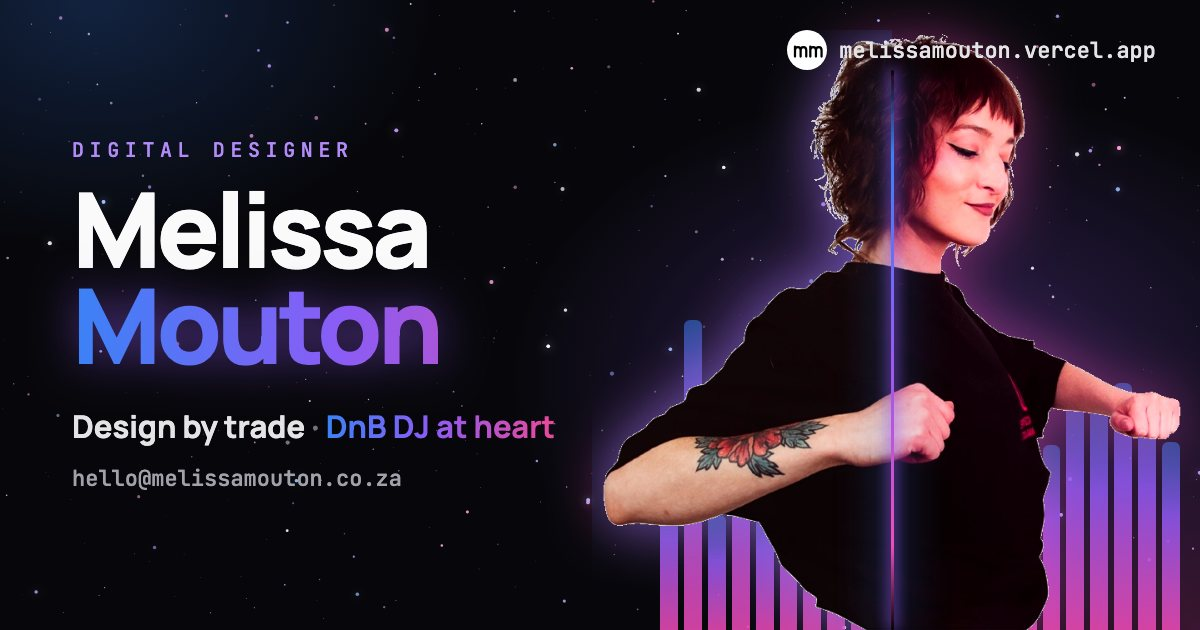
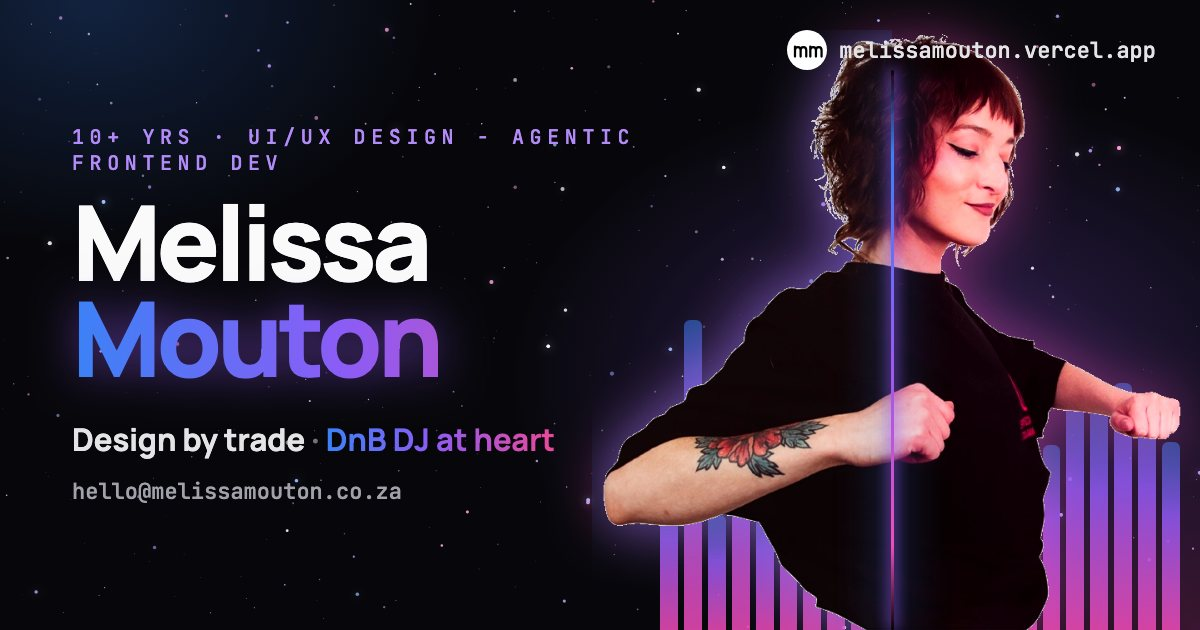
feat: add experience timeline, education, LinkedIn links and AI-workflow headline

diff --git a/src/data/profile-copy.ts b/src/data/profile-copy.ts
@@ -4,25 +4,170 @@ export const profile = {
   name: 'Melissa Mouton',
   /** The old site's title is "Melissa Mouton Design". */
   siteName: 'Melissa Mouton Design',
-  headline: 'Digital designer',
+  headline: '10+ yrs · UI/UX Design - Agentic Frontend Dev',
+  location: 'Cape Town, South Africa',
   email: 'hello@melissamouton.co.za',
+  linkedin: 'https://www.linkedin.com/in/melissamouton',
+  linkedinLabel: 'LinkedIn',
   photoAlt: 'Picture of Melissa Mouton',
   about: {
-    title: "I'm a digital designer obsessed with clean layouts ⚡, smart storytelling ✍, and making things look good and work hard 🔍",
+    title:
+      'UI/UX designer turned agentic frontend builder — shipping clean interfaces ⚡, smart storytelling ✍, and production code with AI workflows 🔍',
     subtitle:
-      'I design across web, social, campaigns, and video — collaborating remotely with international teams to build cohesive, scalable brands 💻✨',
+      "With 10+ years of experience collaborating remotely with international teams across web, social, campaigns, and video, I've evolved my workflow as AI reshapes the job market — moving beyond static handoffs into agentic frontend development to take products from concept to shipped code 💻✨",
     contactLead: 'Say hi!',
   },
+  skills: ['Digital Design', 'UI Design', 'UX Design', 'Agentic Frontend', 'Brand Systems', 'Campaigns'],
+  languages: ['English (Full Professional)', 'Afrikaans (Full Professional)'],
 } as const;
+
+export interface RoleEntry {
+  title: string;
+  period: string;
+  summary?: string;
+}
+
+export interface ExperienceEntry {
+  organization: string;
+  meta: string;
+  roles: RoleEntry[];
+}
+
+export interface EducationEntry {
+  institution: string;
+  credential: string;
+  period: string;
+}
+
+export const EXPERIENCE: ExperienceEntry[] = [
+  {
+    organization: 'Freelance',
+    meta: 'Mar 2024 – Present · Cape Town, South Africa',
+    roles: [
+      {
+        title: 'Freelance Graphic & UI/UX Designer',
+        period: 'Mar 2024 – Present',
+        summary: 'Brand-led digital campaigns, UI/UX systems, and AI-assisted frontend workflows for remote teams.',
+      },
+    ],
+  },
+  {
+    organization: 'The Arcadia Group',
+    meta: '6 yrs 3 mos · Remote',
+    roles: [
+      {
+        title: 'Head of Brand Management, Relations & Outreach',
+        period: 'Jan 2023 – Mar 2024',
+      },
+      {
+        title: 'Lead UI/UX Designer',
+        period: 'Sep 2021 – Mar 2023',
+      },
+      {
+        title: 'Freelance Graphic & UI Designer',
+        period: 'Jan 2018 – Mar 2023',
+        summary: 'User interface design using Adobe XD for keychain wallets and ICO websites.',
+      },
+    ],
+  },
+  {
+    organization: 'Self-employed · Odd Like Me Creative',
+    meta: '5 yrs 1 mo · Cape Town, South Africa',
+    roles: [
+      {
+        title: 'Graphic, UI, Crypto Designer & Social Media Coordinator',
+        period: 'Jul 2019 – Nov 2021',
+      },
+      {
+        title: 'Freelance Graphic / UI Designer',
+        period: 'Oct 2017 – Nov 2021',
+      },
+      {
+        title: 'Social Media Graphic Designer',
+        period: 'Aug 2017 – Nov 2021',
+      },
+      {
+        title: 'Owner & Graphic Designer',
+        period: 'Nov 2016 – Nov 2021',
+      },
+    ],
+  },
+  {
+    organization: 'Phangela Group',
+    meta: 'Cape Town, South Africa',
+    roles: [
+      {
+        title: 'Marketing Executive',
+        period: 'Mar 2019 – Jul 2019',
+      },
+      {
+        title: 'Freelance Graphic Designer / Events Project Manager / Social Media',
+        period: 'Oct 2017 – Sep 2018',
+      },
+    ],
+  },
+  {
+    organization: 'Pink Book',
+    meta: 'Feb 2017 – Aug 2017 · Stellenberg, Cape Town',
+    roles: [
+      {
+        title: 'Design & Social Media',
+        period: 'Feb 2017 – Aug 2017',
+        summary:
+          'Design of the annual Pink Book publication, vlog production and editing, blog and social imagery, social media advertising, Google Analytics tracking, and SEO research.',
+      },
+    ],
+  },
+  {
+    organization: 'eventcloud',
+    meta: 'Sep 2016 – Nov 2016 · Cape Town, South Africa',
+    roles: [
+      {
+        title: 'UI Artist',
+        period: 'Sep 2016 – Nov 2016',
+      },
+    ],
+  },
+  {
+    organization: 'Phangela Group & CDF',
+    meta: 'Jan 2014 – Aug 2016 · Bellville, Cape Town',
+    roles: [
+      {
+        title: 'Graphic Designer',
+        period: 'Jan 2014 – Aug 2016',
+        summary:
+          'Marketing material designs including website and photography, events organization, uniforms, website maintenance, and social media management.',
+      },
+    ],
+  },
+];
+
+export const EDUCATION: EducationEntry[] = [
+  {
+    institution: 'Red & Yellow School',
+    credential: 'Certificate, Digital Marketing',
+    period: '2016',
+  },
+  {
+    institution: "Pearson's Institute of Design",
+    credential: 'Bachelor of Arts (BA), Graphic Design',
+    period: 'Jan 2011 – Dec 2013',
+  },
+  {
+    institution: 'Midrand Graduate Institute (MGI) CTI',
+    credential: 'Bachelor of Arts (BA), Graphic Design – Advertising',
+    period: '2011 – 2013',
+  },
+];
 
 /** The two halves of the hero split: what she is by trade, and what she is at heart. */
 export const SIDES = {
   trade: {
     label: 'Design',
     tagline: 'By trade',
-    /** From her about copy: where she designs. */
-    lines: ['Web, social, campaigns, and video.'],
-    chips: ['Web', 'Social', 'Campaigns', 'Video'],
+    /** Where she designs and builds. */
+    lines: ['UI/UX design, agentic frontend, campaigns, and video.'],
+    chips: ['UI/UX', 'Agentic Dev', 'Campaigns', 'Video'],
   },
   heart: {
     label: 'DnB DJ',

diff --git a/src/components/cv/Experience.tsx b/src/components/cv/Experience.tsx
@@ -1,0 +1,83 @@
+import { Briefcase, GraduationCap } from 'lucide-react';
+import { EDUCATION, EXPERIENCE, profile } from '@/data/profile';
+import { SITE_COPY } from '@/data/site';
+import { RevealGroup, stagger } from '@/components/ui/Reveal';
+import { SectionHeading } from '@/components/ui/SectionHeading';
+
+export function Experience() {
+  const copy = SITE_COPY.experience;
+  return (
+    <section id="experience" className="mx-auto max-w-6xl px-4 py-24 sm:px-6 sm:py-32">
+      <SectionHeading eyebrow={copy.eyebrow} title={copy.title} />
+
+      <div className="grid gap-8 lg:grid-cols-[1.5fr_1fr]">
+        <RevealGroup className="relative space-y-5 pl-6 before:absolute before:bottom-3 before:left-2 before:top-3 before:w-px before:bg-border/80">
+          {EXPERIENCE.map((entry, idx) => (
+            <article key={entry.organization} className="reveal surface lift relative p-5 sm:p-6" style={stagger(idx)}>
+              <span
+                aria-hidden
+                className="absolute -left-[1.35rem] top-6 flex h-5 w-5 items-center justify-center rounded-full border border-border bg-background text-primary"
+              >
+                <Briefcase className="h-3 w-3" />
+              </span>
+              <div className="flex flex-wrap items-baseline justify-between gap-2">
+                <h3 className="text-lg font-semibold tracking-tight">{entry.organization}</h3>
+                <p className="font-mono text-xs text-muted-foreground">{entry.meta}</p>
+              </div>
+              <ul className="mt-3 space-y-3">
+                {entry.roles.map((role) => (
+                  <li key={`${role.title}-${role.period}`} className="border-l-2 border-border/60 pl-3">
+                    <div className="flex flex-wrap items-baseline justify-between gap-2">
+                      <p className="text-sm font-medium text-foreground">{role.title}</p>
+                      <span className="font-mono text-xs text-muted-foreground">{role.period}</span>
+                    </div>
+                    {role.summary ? <p className="mt-1 text-sm leading-relaxed text-muted-foreground">{role.summary}</p> : null}
+                  </li>
+                ))}
+              </ul>
+            </article>
+          ))}
+        </RevealGroup>
+
+        <div className="space-y-6">
+          <RevealGroup className="surface lift p-6">
+            <h3 className="reveal flex items-center gap-2 font-mono text-xs uppercase tracking-[0.2em] text-muted-foreground" style={stagger(0)}>
+              <GraduationCap className="h-4 w-4" aria-hidden /> {copy.education}
+            </h3>
+            <ul className="mt-4 space-y-4">
+              {EDUCATION.map((ed, idx) => (
+                <li key={ed.institution} className="reveal border-l-2 border-border/60 pl-3" style={stagger(idx + 1)}>
+                  <p className="text-sm font-semibold">{ed.institution}</p>
+                  <p className="text-sm text-foreground/85">{ed.credential}</p>
+                  <p className="mt-0.5 font-mono text-xs text-muted-foreground">{ed.period}</p>
+                </li>
+              ))}
+            </ul>
+          </RevealGroup>
+
+          <RevealGroup className="surface lift p-6">
+            <h3 className="reveal font-mono text-xs uppercase tracking-[0.2em] text-muted-foreground" style={stagger(0)}>
+              {copy.skills}
+            </h3>
+            <ul className="reveal mt-3 flex flex-wrap gap-2" style={stagger(1)}>
+              {profile.skills.map((skill) => (
+                <li key={skill} className="chip text-xs text-foreground">
+                  {skill}
+                </li>
+              ))}
+            </ul>
+
+            <h3 className="reveal mt-6 font-mono text-xs uppercase tracking-[0.2em] text-muted-foreground" style={stagger(2)}>
+              {copy.languages}
+            </h3>
+            <ul className="reveal mt-2 space-y-1 text-sm text-foreground/85" style={stagger(3)}>
+              {profile.languages.map((lang) => (
+                <li key={lang}>{lang}</li>
+              ))}
+            </ul>
+          </RevealGroup>
+        </div>
+      </div>
+    </section>
+  );
+}

diff --git a/src/components/layout/Footer.tsx b/src/components/layout/Footer.tsx
@@ -48,6 +48,7 @@ export function Footer() {
             links={[
               { to: '/', label: 'Home' },
               { to: '/#about', label: 'About' },
+              { to: '/#experience', label: 'Experience' },
               { to: '/#contact', label: 'Contact' },
             ]}
           />
@@ -56,6 +57,16 @@ export function Footer() {
             <p className="mt-3 text-sm">
               <a href={`mailto:${profile.email}`} className="inline-flex items-center gap-2 text-foreground/80 transition-colors hover:text-foreground">
                 <Mail className="h-4 w-4" aria-hidden /> {profile.email}
+              </a>
+            </p>
+            <p className="mt-2 text-sm">
+              <a
+                href={profile.linkedin}
+                target="_blank"
+                rel="noreferrer"
+                className="inline-flex items-center gap-2 text-foreground/80 transition-colors hover:text-foreground"
+              >
+                {profile.linkedinLabel}
               </a>
             </p>
           </div>

diff --git a/src/components/cv/Contact.tsx b/src/components/cv/Contact.tsx
@@ -1,4 +1,4 @@
-import { Mail } from 'lucide-react';
+import { ExternalLink, Mail } from 'lucide-react';
 import { GradientGlow, buttonVariants, cn } from '@/vendor/midnite-ui';
 import { profile } from '@/data/profile';
 import { SITE_COPY } from '@/data/site';
@@ -26,6 +26,14 @@ export function Contact() {
               <div className="reveal mt-8 flex flex-wrap justify-center gap-3" style={stagger(3)}>
                 <a href={`mailto:${profile.email}`} className={cn(buttonVariants({ size: 'lg' }), 'h-11 rounded-xl')}>
                   <Mail className="h-4 w-4" aria-hidden /> {profile.email}
+                </a>
+                <a
+                  href={profile.linkedin}
+                  target="_blank"
+                  rel="noreferrer"
+                  className={cn(buttonVariants({ variant: 'outline', size: 'lg' }), 'h-11 rounded-xl')}
+                >
+                  {profile.linkedinLabel} <ExternalLink className="h-4 w-4" aria-hidden />
                 </a>
               </div>
             </div>

diff --git a/src/data/site.ts b/src/data/site.ts
@@ -5,6 +5,7 @@ export const SITE_COPY = {
   nav: [
     { id: 'about', label: 'About' },
     { id: 'projects', label: 'Projects' },
+    { id: 'experience', label: 'Experience' },
     { id: 'contact', label: 'Contact' },
   ],
   projects: {
@@ -16,7 +17,14 @@ export const SITE_COPY = {
     view: 'View project',
   },
   about: { eyebrow: '01 · About' },
-  contact: { eyebrow: '03 · Contact', title: ['Say', 'hi!'] },
+  experience: {
+    eyebrow: '03 · Experience',
+    title: ['Career', 'timeline'],
+    education: 'Education',
+    skills: 'Core skills',
+    languages: 'Languages',
+  },
+  contact: { eyebrow: '04 · Contact', title: ['Say', 'hi!'] },
   projectsPage: {
     eyebrow: 'Portfolio',
     title: 'Projects',

diff --git a/src/seo/meta.ts b/src/seo/meta.ts
@@ -38,8 +38,8 @@ export interface PageMeta {
 }
 
 const HOME_TITLE = `${profile.name} · ${profile.headline}`;
-/** Her own summary (the about copy, without the emoji), then the two halves of the hero. */
-const HOME_DESCRIPTION = `${profile.name} is a digital designer working across web, social, campaigns, and video with international teams. ${HERO.trade} ${HERO.heart}`;
+/** Her summary and the two halves of the hero. */
+const HOME_DESCRIPTION = `${profile.name} — ${profile.headline}. Pairing UI/UX design craft with agentic frontend workflows to ship digital products faster. ${HERO.trade} ${HERO.heart}`;
 
 /** The 1200×630 card scripts/og-image.mjs renders. */
 const SITE_IMAGE: ShareImage = {

diff --git a/src/pages/Home.tsx b/src/pages/Home.tsx
@@ -2,6 +2,7 @@ import { useEffect } from 'react';
 import { Hero } from '@/components/cv/Hero';
 import { About } from '@/components/cv/About';
 import { Projects } from '@/components/cv/Projects';
+import { Experience } from '@/components/cv/Experience';
 import { Contact } from '@/components/cv/Contact';
 
 /** The home page. `section` supports the /<id> routes (/about, /contact), which land on that section. */
@@ -19,6 +20,7 @@ export default function Home({ section }: { section?: string }) {
       <Hero />
       <About />
       <Projects />
+      <Experience />
       <Contact />
     </main>
   );

diff --git a/e2e/smoke.spec.ts b/e2e/smoke.spec.ts
@@ -18,6 +18,7 @@ test('home renders her name, the hero split, about and projects', async ({ page 
   await expect(page.getByRole('slider', { name: /design and dnb dj/i })).toBeVisible();
   await expect(page.locator('#about')).toContainText('Design by trade.');
   await expect(page.locator('#about').getByRole('link', { name: profile.email })).toHaveAttribute('href', `mailto:${profile.email}`);
+  await expect(page.locator('#experience')).toContainText('The Arcadia Group');
   await expect(page.getByRole('link', { name: /explore all projects/i })).toBeVisible();
   expect(errors).toEqual([]);
 });

diff --git a/src/data/profile.ts b/src/data/profile.ts
@@ -1,6 +1,7 @@
 import photo from '@/assets/img/melissa.webp';
 import { profile as copy } from './profile-copy';
 
-export { HERO, SIDES } from './profile-copy';
+export { EDUCATION, EXPERIENCE, HERO, SIDES } from './profile-copy';
+export type { EducationEntry, ExperienceEntry, RoleEntry } from './profile-copy';
 
 export const profile = { ...copy, photo } as const;
